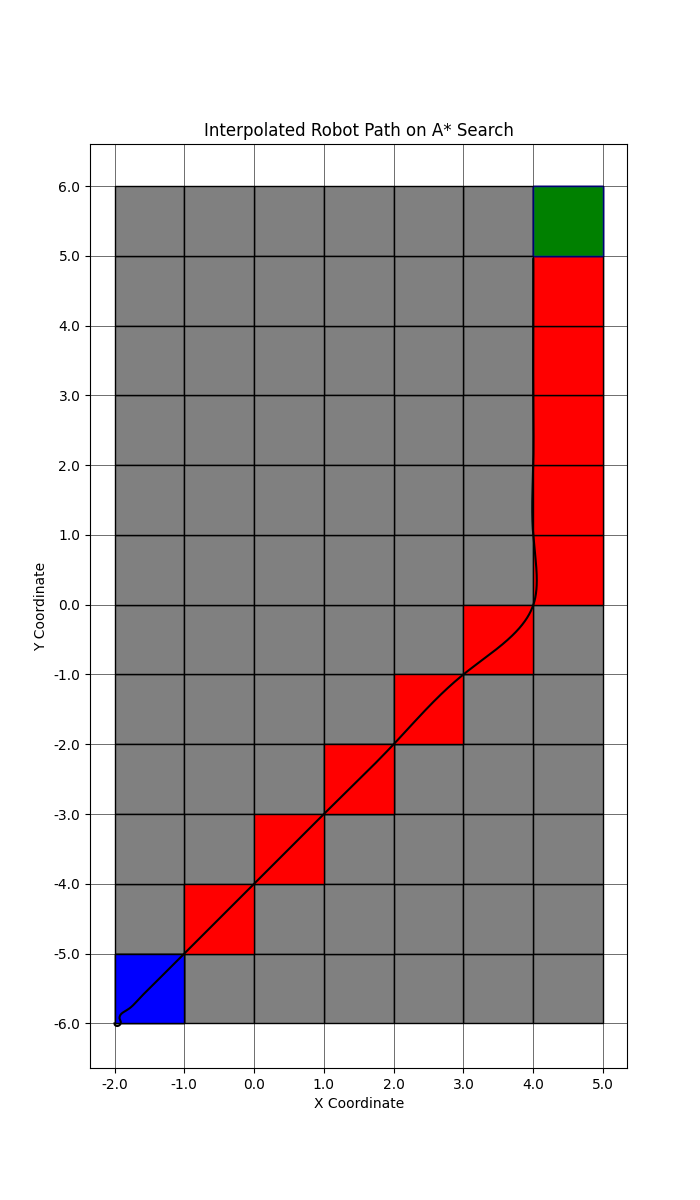
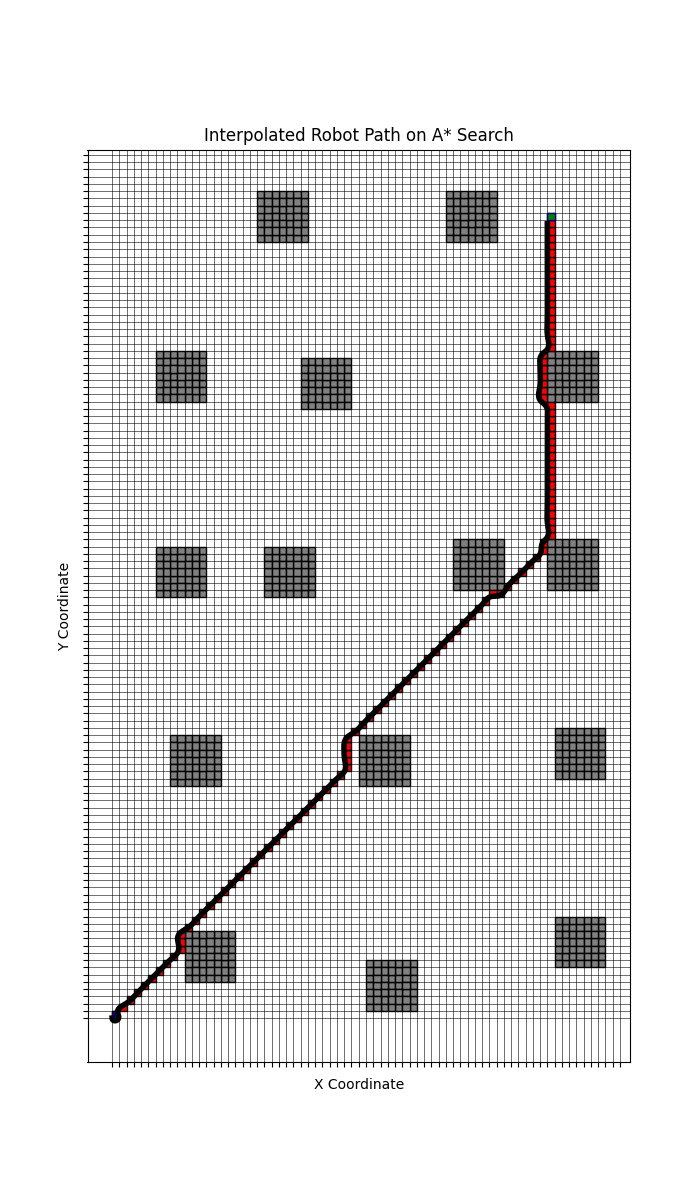
Changed line plotting shape

diff --git a/questions.py b/questions.py
@@ -47,7 +47,7 @@ def plot_search(start, goal, path, bounds, res, obstacles, title, filename, traj
     ax.add_patch(goal_rect)
 
     if traj is not None:
-        ax.plot(traj[:,0], traj[:,1], color='black')
+        ax.plot(traj[:,0], traj[:,1], color='black', linewidth=4)
 
     fig_path = os.path.join(PLOT_PATH, filename)
     plt.savefig(fig_path)
@@ -272,7 +272,7 @@ def q8():
         [-2, 5],    # x bounds
         [-6, 6]     # y bounds
     ]
-    res = 1.0
+    res = 0.1
 
     obstacles = get_obstacles(bounds, res, inflate=3)
 
